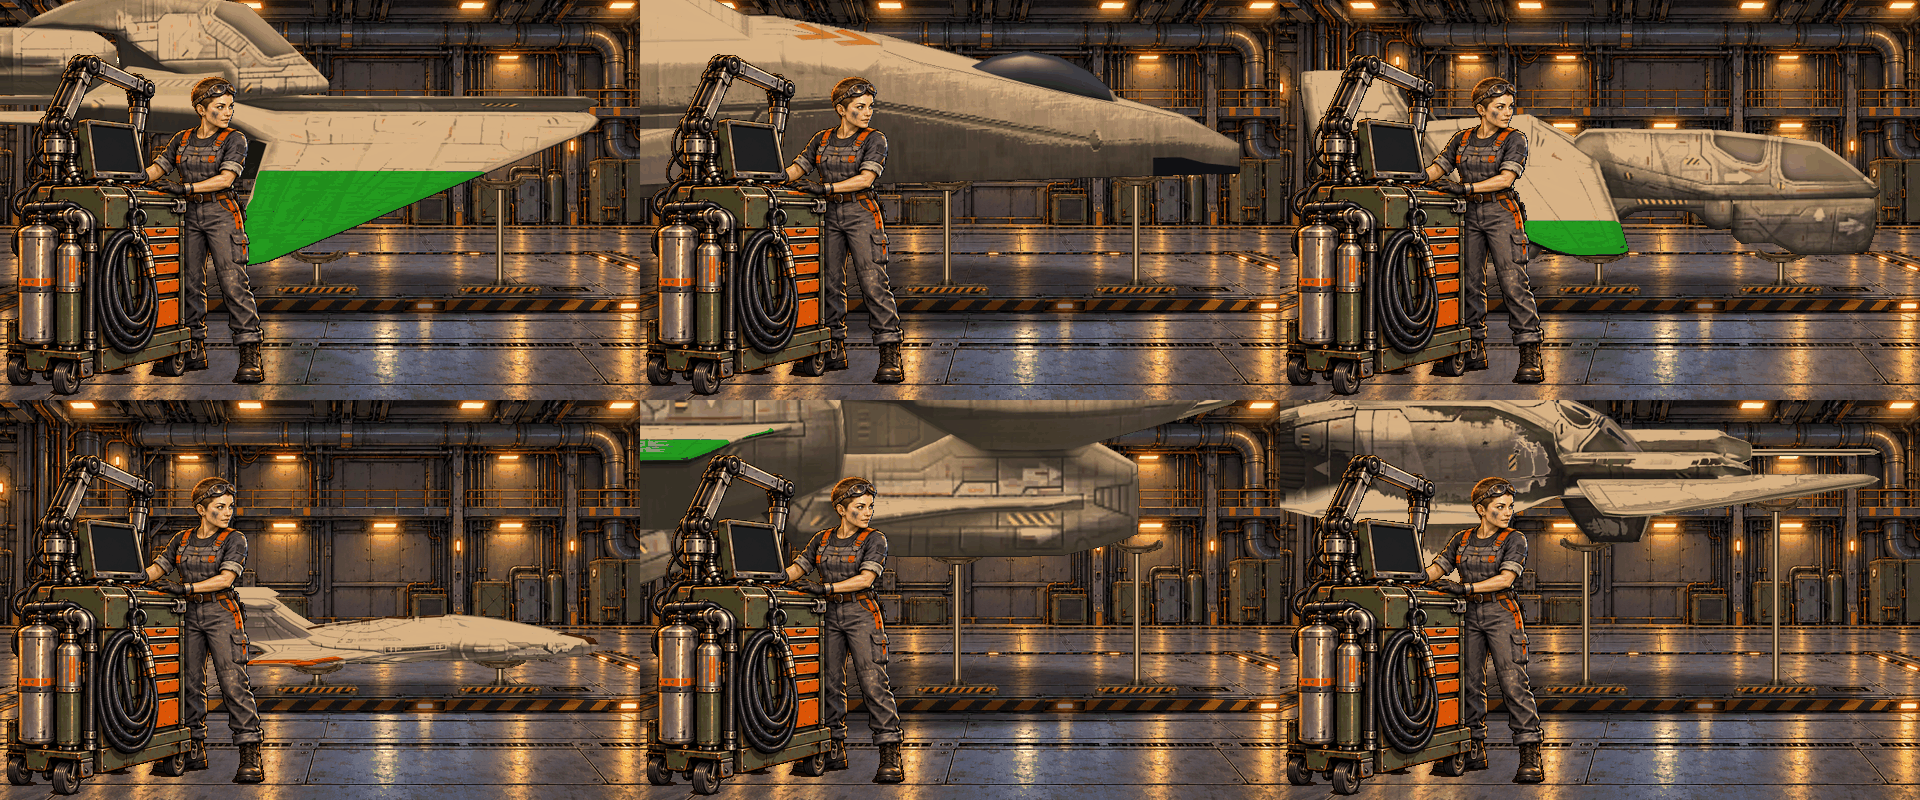
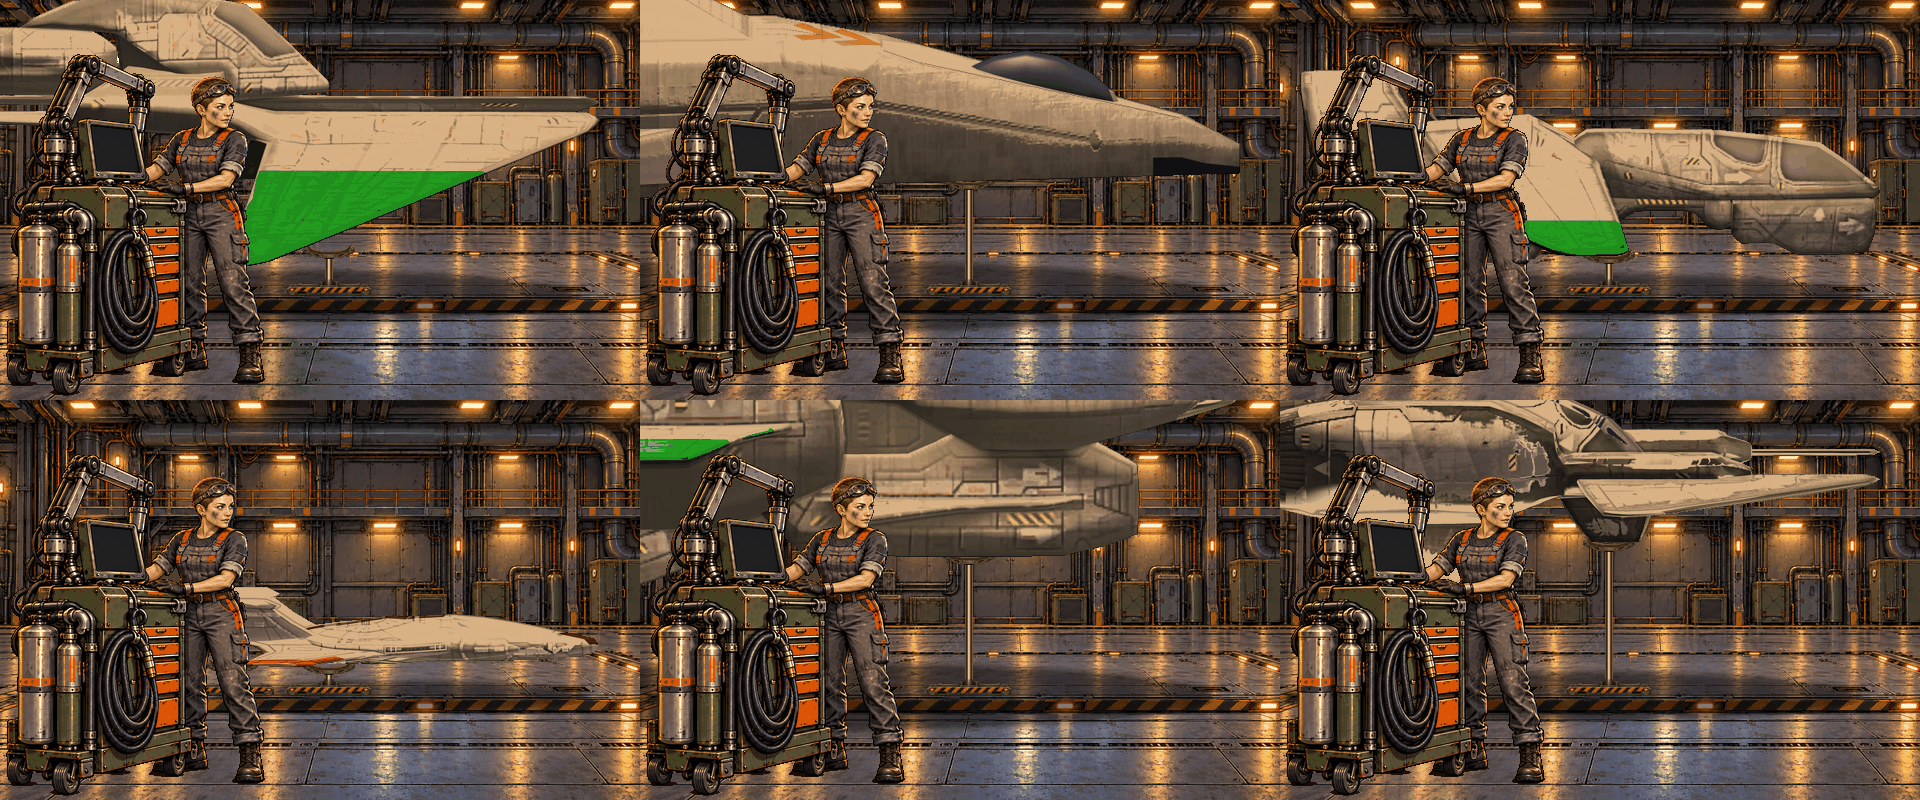
retrovega: the deck's sleds stand at two set spots, mid-deck and behind the cart
Claude-Session: https://claude.ai/code/session_019Nres1uExFzYT7oEr38LtM

diff --git a/retrovega/tools/places.py b/retrovega/tools/places.py
@@ -60,10 +60,8 @@ TICK = 50          # ms per frame of the launch
 LAUNCH = {'spool_ms': 600, 'lift_ms': 400, 'lift_px': 4, 'run_ms': 900}
 # the landing sleds, in screen pixels: the least strut showing under a ship's
 # lowest point, their parts' sizes (a painted sled is scaled to the foot's
-# width), where they stand along the hull that shows (front always, rear too
-# past two_from pixels)
-SLED = {'strut_min': 4, 'foot': (84, 16), 'strut': 14, 'saddle': 66,
-        'front': [0.72], 'rear': [0.2], 'two_from': 300}
+# width), the least gap between two sleds
+SLED = {'strut_min': 4, 'foot': (84, 16), 'strut': 14, 'saddle': 66, 'apart': 60}
 RENDER = 1280      # the size the fighters are rendered at before scaling down
 
 
@@ -199,7 +197,7 @@ def lit(img, light):
     return Image.fromarray(np.clip(a, 0, 255).astype(np.uint8), 'RGBA')
 
 
-def fighter(ship, cfg, frame, cache, cover, parts, rerender=False):
+def fighter(ship, cfg, frame, cache, parts, rerender=False):
     """A fighter on the pad: sprite, position, under layer, engine points, and
     the sleds it stands on."""
     above, below, info = render_views(ship, cfg, cache, rerender)
@@ -217,51 +215,28 @@ def fighter(ship, cfg, frame, cache, cover, parts, rerender=False):
     engines = nozzles(sprite, [(ey - bb[1]) * s for _ex, ey, _r in info['engines']])
     under, ux, uy = under_layer(below, s, x, size[0], cx, cy, deck, cfg['light'])
     return {'sprite': sprite, 'x': x, 'y': y, 'under': under, 'ux': ux, 'uy': uy, 'engines': engines,
-            'sleds': sled_spots(sprite, x, y, deck, cover)}
+            'sleds': sled_spots(sprite, x, y, [frame.xy(sx, 0)[0] for sx in cfg['sleds']])}
 
 
-def covered(cover, x, y, h, w):
-    """Which pixels of an h x w picture at (x, y) nobody sees: off the screen,
-    or behind the front layer."""
-    out = np.ones((h, w), bool)
-    win = window(cover, x, y, h, w)
-    if win:
-        d, s = win
-        out[s] = cover[d]
-    return out
-
-
-def sled_spots(sprite, x, y, deck, cover):
-    """Where a fighter's sleds stand: one under the front of the longest
-    stretch of belly that shows, one under its rear too when that stretch is
-    long enough.  Each is
-    [x of its middle, y of its top]; its top meets the belly, the lowest point
-    under the saddle, and its foot stands on the deck."""
+def sled_spots(sprite, x, y, want):
+    """Where a fighter's sleds stand: at the room's sled spots (screen x),
+    each moved towards the nose until there is hull above its saddle, a sled
+    that ends up too near another left out.  Each is [x of its middle, y of
+    its top]; its top meets the belly, the lowest point over the saddle."""
     a = np.asarray(sprite)[..., 3] > 0
     h, w = a.shape
-    hid = covered(cover, x, y, h, w)
     has = a.any(axis=0)
     belly = np.where(has, h - 1 - np.argmax(a[::-1], axis=0), -1)
-    shows = np.array([has[c] and not hid[belly[c], c] for c in range(w)])
-    # the belly that shows: the longest run of such columns, small gaps closed
-    runs, start = [], None
-    shows = ndimage.binary_closing(np.pad(shows, 8), np.ones(9, bool))[8:-8] & has
-    for c in range(w + 1):
-        if c < w and shows[c]:
-            start = c if start is None else start
-        elif start is not None:
-            runs.append((start, c - 1))
-            start = None
-    if not runs:
-        return []
-    left, right = max(runs, key=lambda r: r[1] - r[0])
-    spots = []
     half = SLED['saddle'] // 2
-    for f in SLED['front'] if right - left < SLED['two_from'] else SLED['front'] + SLED['rear']:
-        c = int(left + f * (right - left))
-        band = [i for i in range(c - half, c + half + 1) if 0 <= i < w and shows[i]]
-        if band:
-            spots.append([int(x + c), int(y + max(belly[i] for i in band) + 1)])
+    spots = []
+    for sx in want:
+        c = max(int(round(sx)) - x, half)
+        while c + half < w and not has[c - half:c + half + 1].all():
+            c += 1
+        if c + half >= w or any(abs(x + c - q[0]) < SLED['apart'] for q in spots):
+            continue
+        band = belly[c - half:c + half + 1]
+        spots.append([int(x + c), int(y + band.max() + 1)])
     return spots
 
 
@@ -535,13 +510,8 @@ def build(key, cfg, out, cache, rerender=False, log=print):
                             'sled': {'foot': 'sled-foot.png', 'strut': 'sled-strut.png',
                                      'saddle': 'sled-saddle.png', 'seat': seat(parts)}}
         place['launch'] = dict(LAUNCH)
-        # where the front layer hides what is behind it, in every frame
-        cover = np.asarray(front)[..., 3] > 0
-        for pics, _ms in clips.values():
-            for pic in pics:
-                cover[rect[1]:rect[3], rect[0]:rect[2]] &= np.asarray(pic)[..., 3] > 0
         for ship in deck_ships(fc['ships']):
-            sh = fighter(ship, fc, frame, cache, cover, parts, rerender)
+            sh = fighter(ship, fc, frame, cache, parts, rerender)
             sh['parts'], sh['deck'] = parts, place['fighter']['deck']
             ships[ship] = sh
             sh['sprite'].save(os.path.join(od, 'ship-%s.png' % ship))

diff --git a/retrovega/docs/places.md b/retrovega/docs/places.md
@@ -70,10 +70,11 @@ landing sleds.
 - **Shape:** a sled is a foot on the deck, a strut repeated up to the
   height it needs, and a saddle under the hull (`sled-foot.png`,
   `sled-strut.png`, `sled-saddle.png`). The engine stacks them.
-- **Where they go:** one stands under the front of the longest stretch of
-  belly that can be seen, and one under its rear when that stretch is over
-  300 px. Each reaches from the deck to the lowest point of the hull above
-  its saddle.
+- **Where they go:** at the deck's two sled spots (`sleds`, source x): one
+  under the middle of the deck, one behind the cart, where it is mostly
+  hidden. A spot with no hull over it moves towards the nose until there
+  is; a sled that would end up within 60 px of the other is left out. Each
+  reaches from the deck to the lowest point of the hull above its saddle.
 - **The art:** a painted sled, `art/places/src/deck/sled.png` (the prompt
   below), sliced by the tool: the strut is the longest run of rows at its
   narrowest width, the foot is below it and the saddle above. The saddle
